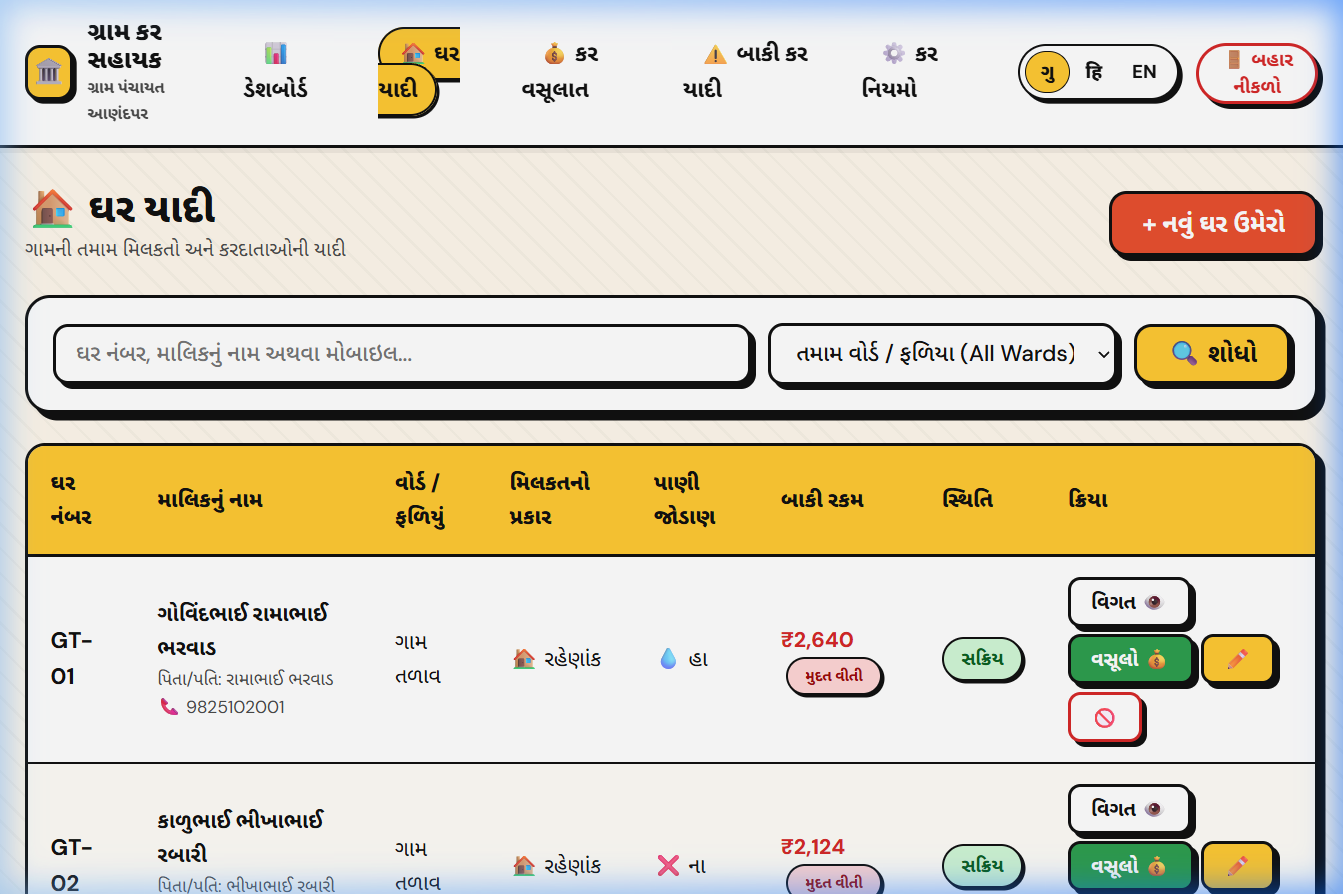
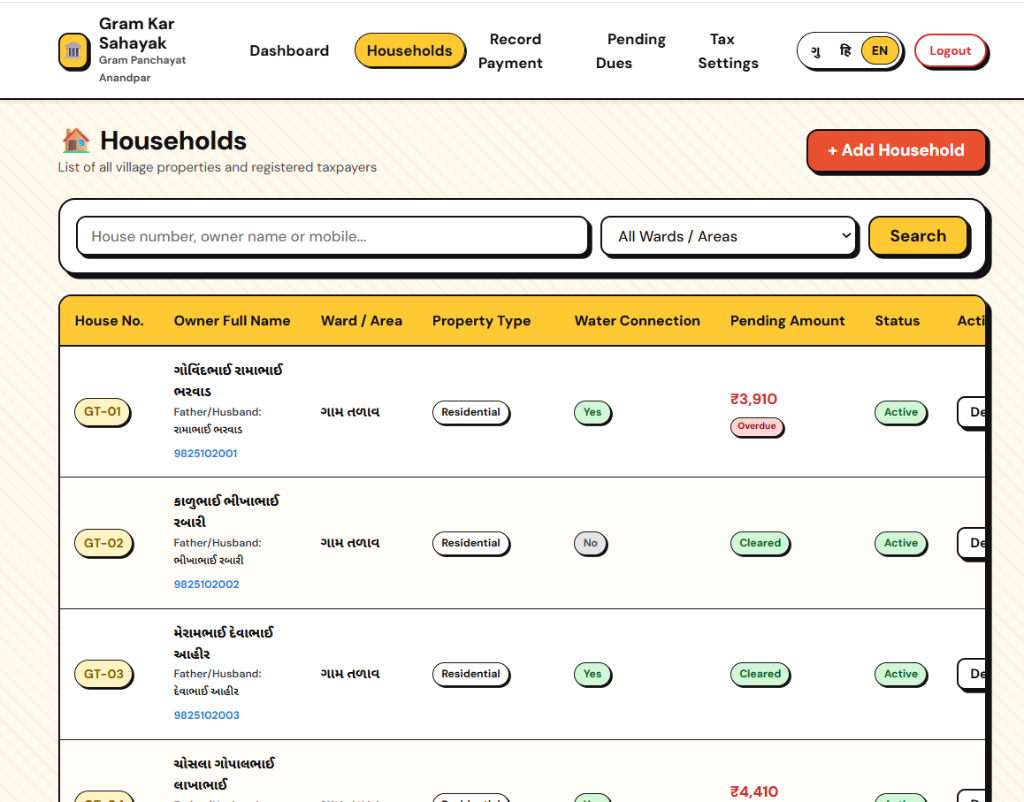
docs: update visual screenshots with high-res UI captures for homepage, dashboard, households, and audit logs

diff --git a/README.md b/README.md
@@ -48,38 +48,52 @@ Provides the Sarpanch and Talati-cum-Mantri with instant visibility into recover
 
 ---
 
-### 3.3 Village Household & Property Register
+### 3.3 Recent Tax Collection Ledger
+Real-time audit log of all recorded tax collections, transaction dates, allocated amounts, and payment instruments (Cash / UPI / Cheque) with instant receipt viewing and cancellation audit actions.
+
+![Recent Tax Collections](docs/screenshots/09_recent_payments.png)
+
+---
+
+### 3.4 Village Household & Property Register
 Complete register of village properties across all wards (*Patel Faliya, Gam Talav, Nava Vas, Mandir Chowk*). Supports property status management (Active / Inactive), water connection tracking, and instant navigation to household dues statements.
 
 ![Household Property Register](docs/screenshots/03_households_directory.png)
 
 ---
 
-### 3.4 Property Dues Statement & Demand History
+### 3.5 Property Dues Statement & Demand History
 Detailed statement of an individual household showing all historical demand assessments, principal balance, late fee compounding, payment records, and net outstanding balance.
 
 ![Household Statement](docs/screenshots/04_pending_dues_statement.png)
 
 ---
 
-### 3.5 Tax Collection & Real-Time Allocation (Step 1 to 3)
+### 3.6 Tax Collection & Real-Time Allocation (Step 1 to 3)
 Interactive collection workflow featuring fuzzy household lookup (supports variations like `GT-01`, `gt01`, mobile, or owner name), itemized overdue breakdown, partial payment support, and live dynamic allocation preview.
 
 ![Tax Collection & Dynamic Allocation](docs/screenshots/05_record_payment.png)
 
 ---
 
-### 3.6 Statutory Receipt Generation (Panchayat Form No. 4, Rule 24)
+### 3.7 Statutory Receipt Generation (Panchayat Form No. 4, Rule 24)
 Standardized government-format tax collection receipt featuring the official emblem, taluka/district headers, itemized tax allocation, payment mode, unique sequential receipt number, and printer-ready CSS styles (`window.print()`).
 
 ![Official Form No. 4 Receipt](docs/screenshots/06_official_receipt.png)
 
 ---
 
-### 3.7 Citizen Digital UPI Payment Drawer
+### 3.8 Citizen Digital UPI Payment Drawer
 Integrated online UPI QR payment flow allowing citizens to pay dues remotely, verify transaction references, and download stamped digital payment confirmations.
 
 ![Citizen Digital Payment](docs/screenshots/07_citizen_online_upi.png)
+
+---
+
+### 3.9 Rural Good Governance & Warli Visual Identity
+Every page incorporates authentic Gujarati cultural motifs, including the traditional Warli border strip, official Panchayat office timings, and localized helpline access.
+
+![Warli Art & Footer](docs/screenshots/10_footer_warli.png)
 
 ---
 
